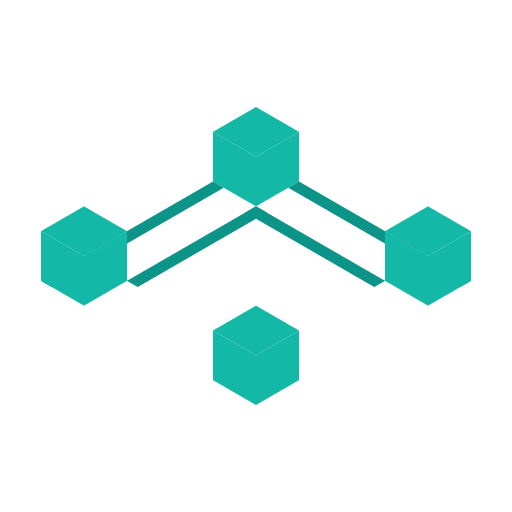
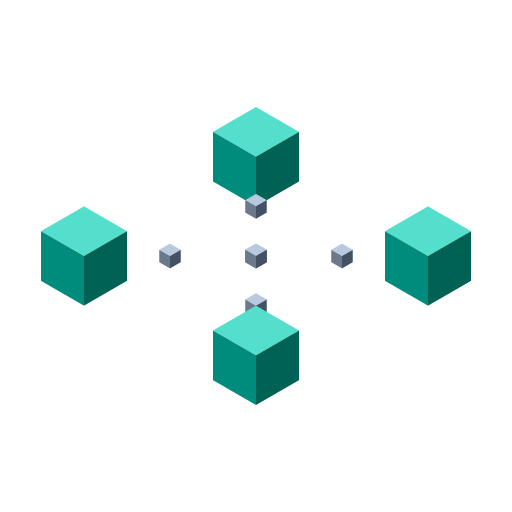
fix: sharpen small PNG exports, stop fake diagonal wires/glow
Agent assisted coded with: claude-sonnet-5

Changed region(s): [[0.0625, 0.2188, 0.9375, 0.5938], [0.4062, 0.5625, 0.5938, 0.7812], [0.4688, 0.4688, 0.5312, 0.5312]]

diff --git a/isoforge/render/raster.py b/isoforge/render/raster.py
@@ -53,20 +53,38 @@ def _available_backend() -> Backend:
         ) from exc
 
 
+def _supersample_factor(width: int, height: int) -> int:
+    """Pick a render-then-downsample multiplier so small isometric edges stay crisp.
+
+    resvg anti-aliases at the target resolution, which is plenty at 512px+ but leaves
+    visibly jagged 30-degree edges on favicon-sized output. Rendering larger and
+    downsampling with Lanczos gives free anti-aliasing without touching the SVG. The
+    factor tapers off as the target grows so large exports stay fast.
+    """
+    smaller = min(width, height)
+    if smaller <= 128:
+        return 4
+    if smaller <= 320:
+        return 2
+    return 1
+
+
 def svg_to_png(svg: str, *, width: int, height: int, backend: Backend | None = None) -> bytes:
     """Rasterize SVG text to PNG bytes at an exact pixel size."""
     backend = backend or _available_backend()
+    factor = _supersample_factor(width, height)
+    render_w, render_h = width * factor, height * factor
 
     if backend == "resvg":
         import resvg_py
 
-        raw = resvg_py.svg_to_bytes(svg_string=svg, width=width, height=height)
+        raw = resvg_py.svg_to_bytes(svg_string=svg, width=render_w, height=render_h)
         data = bytes(raw) if isinstance(raw, (list, bytearray)) else raw
     else:
         import cairosvg
 
         data = cairosvg.svg2png(
-            bytestring=svg.encode("utf-8"), output_width=width, output_height=height
+            bytestring=svg.encode("utf-8"), output_width=render_w, output_height=render_h
         )
 
     # Normalise through Pillow so metadata and encoder settings are ours, not the

diff --git a/isoforge/agent/prompts.py b/isoforge/agent/prompts.py
@@ -44,6 +44,17 @@ grounding. Saturated mid-tones read best against both light and dark backgrounds
 and modern. A solid rectangular block looks unfinished.
 6. Anchor the composition. Either ground it on a base slab or plane, or commit fully to \
 floating elements. A single cube hovering with no context looks accidental.
+7. The grid is axis-aligned; there is no primitive for a true diagonal line. Do not fake \
+a "connector" or "wire" between two shapes with a thin plane or cube spanning a diagonal \
+offset — projected isometrically it becomes a crossed, misshapen parallelogram, not a \
+line. To suggest a link, either place small cubes in a straight chain that only steps \
+one axis at a time, or drop the connector entirely and let proximity and shared color \
+imply the relationship.
+8. Opacity is not a glow. Lowering a shape's opacity to fake luminescence, glass or \
+haze reads as washed-out, especially when several translucent shapes of a similar hue \
+overlap. Keep shapes opaque by default. For an actual glow or halo, use `effects.glow` \
+or `effects.shadow`, which render as a soft aura behind crisp geometry instead of \
+smearing it.
 
 # Choosing your tool
 

diff --git a/README.md b/README.md
@@ -65,9 +65,9 @@ Each of these was a single opening prompt to `isoforge chat`, no follow-up edits
 <td><img src="assets/showcase/nodecloud.png" width="220" alt="Node cloud logo"></td>
 <td>
 
-> three separate small cubes arranged in a triangle with gaps between them,
-> all sitting on a flat square platform cube, connected by thin bright lines
-> drawn between their top centers, blue cubes white platform
+> a small cluster of three cubes on a flat platform, each topped with a
+> small glowing accent cube, arranged with one in front and two behind, on
+> white background, represents distributed nodes
 
 </td>
 </tr>
